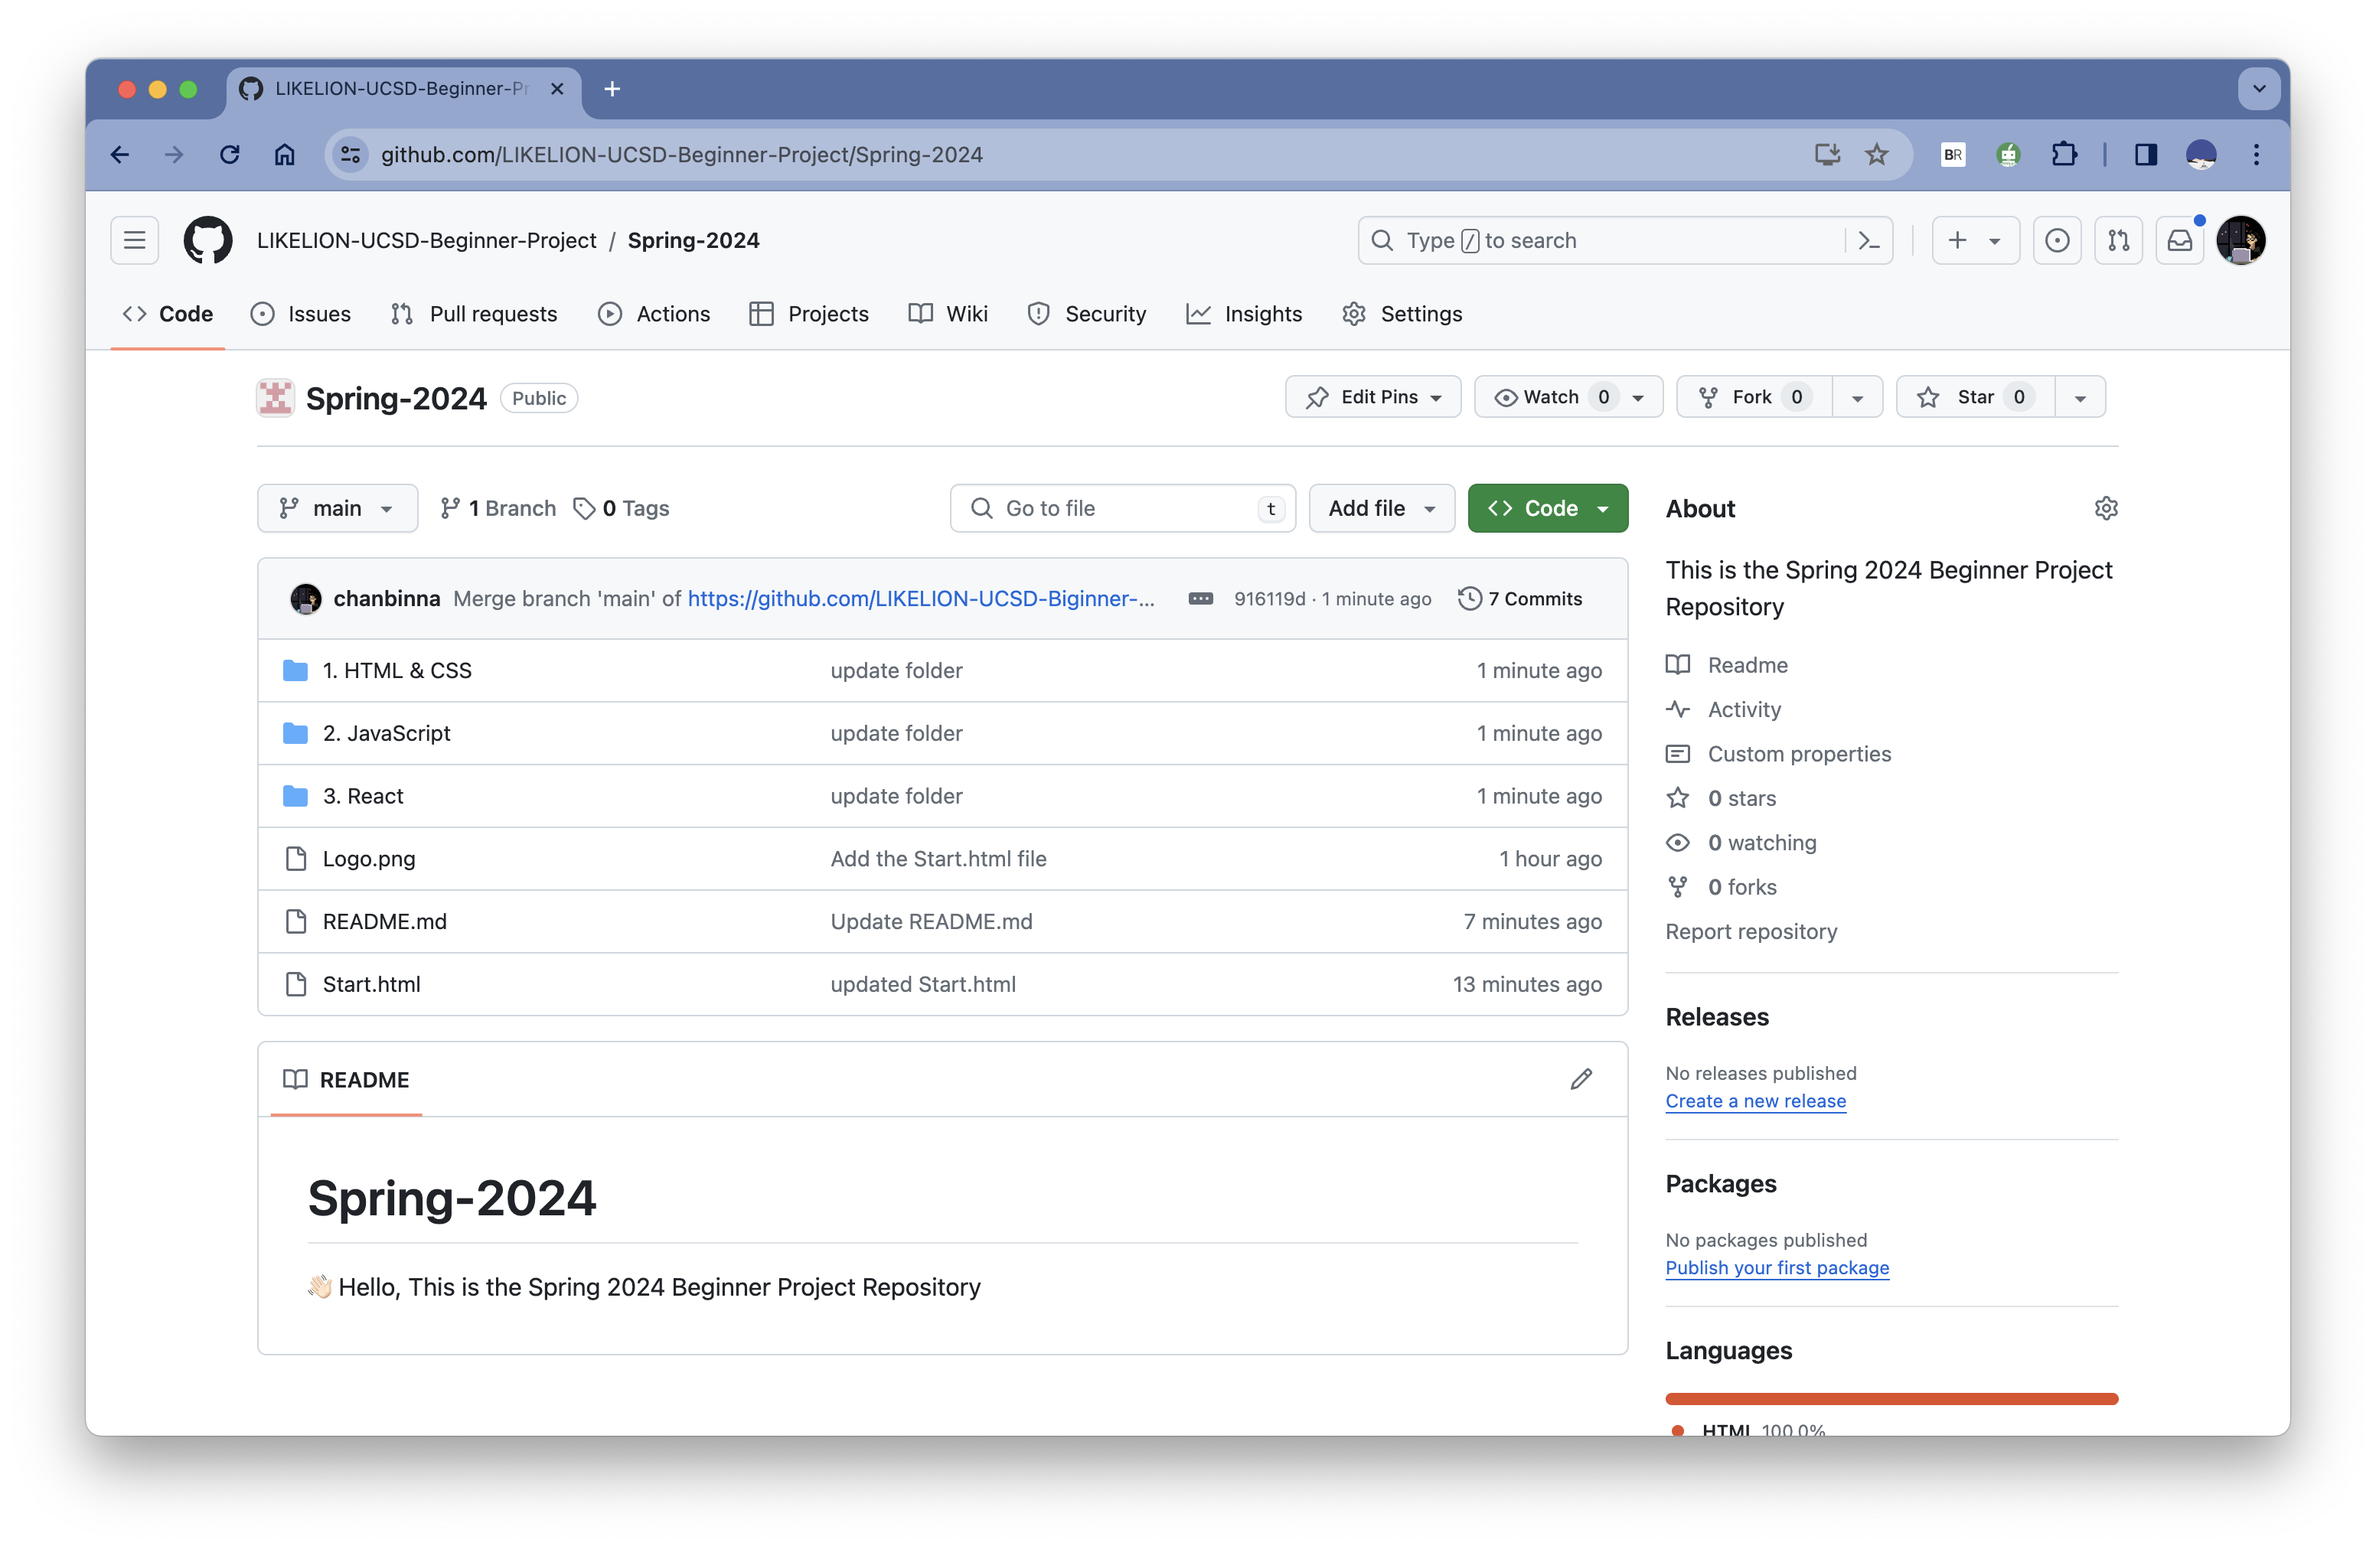
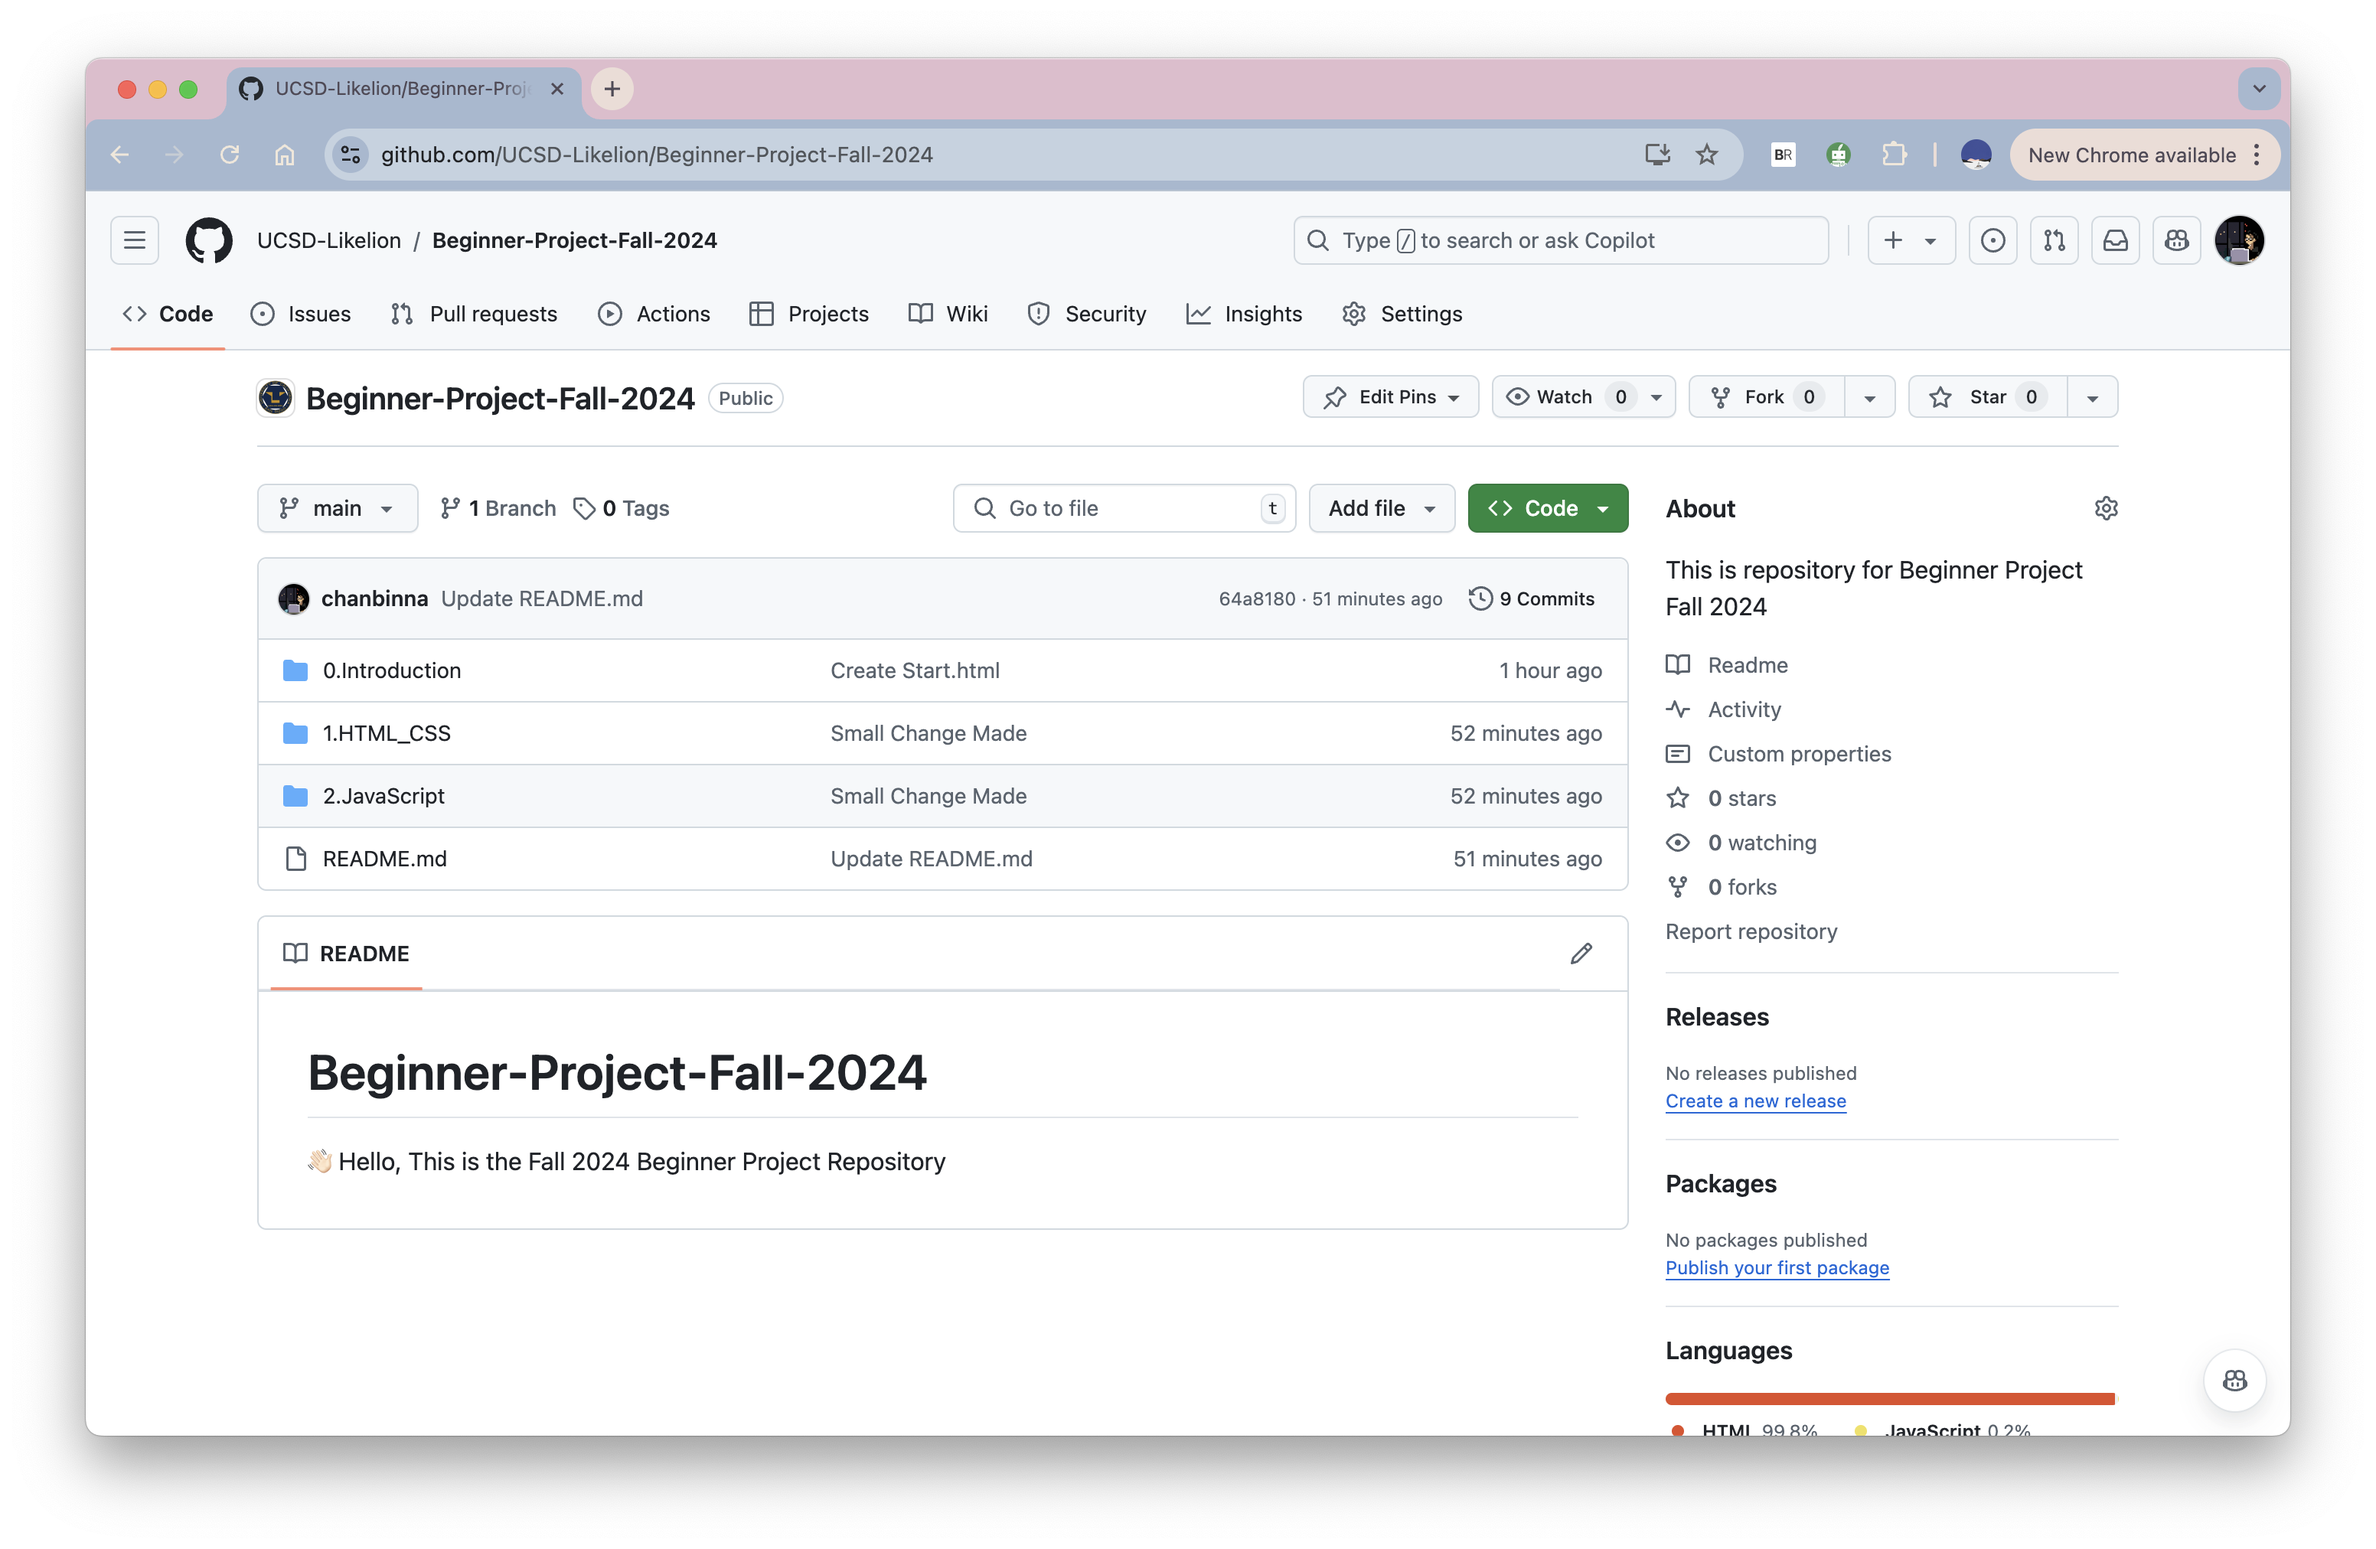
introduction 수정

diff --git a/client/public/blog/Introduction.md b/client/public/blog/Introduction.md
@@ -6,13 +6,14 @@
 
 ## Class Schedule
 
-- Week 2: Orientation
-- Week 3: 웹개발 기초, html +css
-- Week 4: javascript
-- Week 5 - 6: react
-- Week 7: 미니 프로젝트 구상
-- Week 8-9: 미니 프로젝트
-- Week 10: 미니 프로젝트 발표
+- Week 2: Orientation, 웹개발 기초
+- Week 3: HTML + CSS, JavaScript
+- Week 4: React
+- Week 5: Node.js
+- Week 6: GraphQL, MongoDB
+- Week 7: 프론트엔드 프로젝트
+- Week 8-9: 파이널 프로젝트
+- Week 10: 발표
 
 ## Class 진행방식
 
@@ -154,11 +155,13 @@ Git과 GitHub를 혼용해서 사용하기 쉬운데 둘은 서로 다른 서비
 
 **먼저 아래 링크에 접속하여 LIKELION UCSD Beginner Project의 Spring-2024 repository에 접속합니다.**
 
-[https://github.com/LIKELION-UCSD-Beginner-Project/Spring-2024](https://github.com/LIKELION-UCSD-Beginner-Project/Spring-2024)
+[https://github.com/UCSD-Likelion/Beginner-Project-Fall-2024](https://github.com/UCSD-Likelion/Beginner-Project-Fall-2024)
 
 ![Untitled](/Untitled-7.png)
 
-**그리고 GitHub repository를 로컬컴퓨터에 clone 해줍니다.**
+**위의 페이지로 접속이 됬으면 folk 버튼을 눌러 자신의 계정으로 복사해줍니다.**
+
+**folk 가 완료되면 GitHub repository를 로컬컴퓨터에 clone 해줍니다.**
 
 [https://docs.github.com/en/repositories/creating-and-managing-repositories/cloning-a-repository](https://docs.github.com/en/repositories/creating-and-managing-repositories/cloning-a-repository)
 
